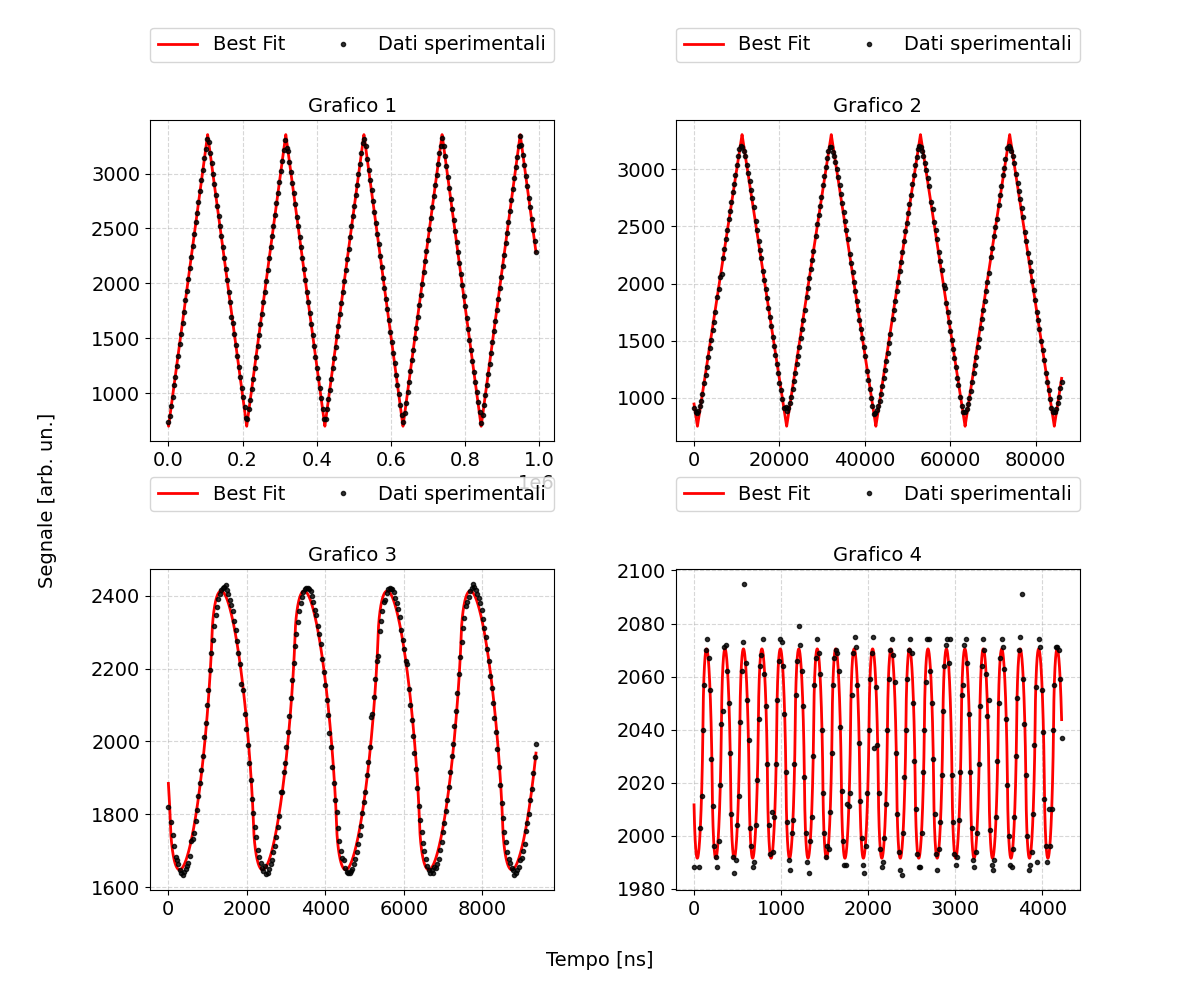
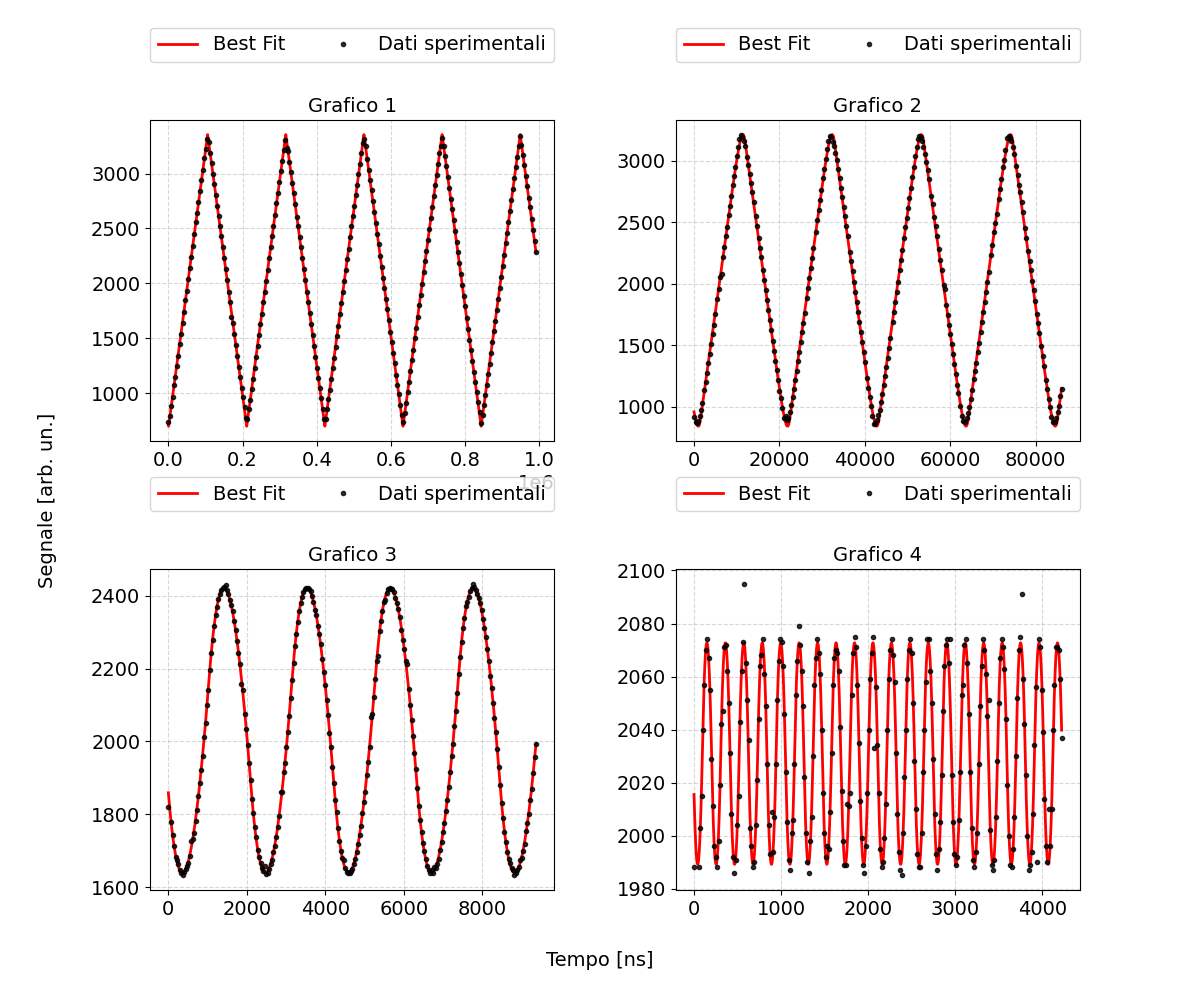
Add files via upload
Many many corrections and improvements!

diff --git a/Relazionenatalizia/fous_int_der_triang.py b/Relazionenatalizia/fous_int_der_triang.py
@@ -1,0 +1,80 @@
+import numpy as np
+from matplotlib import pyplot as plt
+
+filepath = r'/media/candido/Extreme SSD/Unipi/Secondo anno/Lab 2/Materiale/Esercizi/Relazionenatalizia/'
+
+### Aesthetic Settings
+fontsize = 14
+num_plots = 6
+params = {
+    'figure.figsize': (6 * 1.618, 6),  # Figure size
+    'axes.labelsize': fontsize,        # Axis label size
+    'axes.titlesize': fontsize,        # Title size
+    'xtick.labelsize': fontsize,       # X-axis tick label size
+    'ytick.labelsize': fontsize,       # Y-axis tick label size
+    'legend.fontsize': fontsize,       # Legend font size
+}
+plt.rcParams.update(params)
+
+# Fourier sine series for a square wave
+def ff(x,a, omega, phi,c,ft, iter=1000):
+    iter += 1
+    f = 0
+    x=phi+x
+    for k in range(1, iter, 2):
+        f += G_lpf(k*omega,ft)*((2 / (k * np.pi))**2) * np.cos(k * x * omega + dphi_lpf(k*omega,ft) )
+    f=f-np.mean(f)
+    return a*f+c
+
+def fd(x,a, omega, phi,c,ft, iter=1000):
+    iter += 1
+    f = 0
+    x=phi+x
+    for k in range(1, iter, 2):
+        f += G_hpf(k*omega,ft)*((2 / (k * np.pi))**2) * np.cos(k * x * omega + dphi_hpf(k*omega,ft) )
+    f=f-np.mean(f)
+    return a*f+c
+
+def ft(x,a=1, omega=2 * np.pi, phi=0, iter=1000):
+    iter += 1
+    f = 0
+    for k in range(1, iter, 2):
+        f += ((2 / (k * np.pi))**2) * np.cos(k * x * omega + phi)
+    return a*f
+
+
+##################
+def G_lpf(omega,ft=1000):
+    f=omega/(2*np.pi)
+    return 1/np.sqrt(1+(f/ft)**2)
+def dphi_lpf(omega,ft=1000):
+    f=omega/(2*np.pi)
+    return np.arctan(-f/ft)
+
+def G_hpf(omega,ft=1000):
+    f=omega/(2*np.pi)
+    return 1/np.sqrt(1+(ft/f)**2)
+def dphi_hpf(omega,ft=1000):
+    f=omega/(2*np.pi)
+    return np.arctan(ft/f)
+
+
+
+# Analytical square wave
+def triangwave(x, a, omega=2 * np.pi, phi=0):
+    return a * (1-(2/np.pi)*np.arccos(np.cos(x * omega + phi)))
+
+
+# Parameters
+iter = np.logspace(1, num_plots, num_plots, base=10)  # Logarithmically spaced
+res_im = 10000
+xx = np.linspace(-1, 1, res_im)
+
+plt.figure()
+plt.plot(xx,1000*ff(xx,1,2*np.pi,0,0,1e-3),label="Segnale integrato x1000")
+plt.plot(xx,1000*fd(xx,1,2*np.pi,0,0,1e3),label="Segnale derivato x1000")
+plt.plot(xx,ft(xx,1,2*np.pi,0,1000),label="Segnale")
+plt.grid()
+plt.legend(loc='lower right', ncol=1)
+plt.savefig(filepath+"integ_der_trinag.png")
+plt.show()

diff --git a/Relazionenatalizia/fous_int_der_train.py b/Relazionenatalizia/fous_int_der_train.py
@@ -1,0 +1,76 @@
+import numpy as np
+from matplotlib import pyplot as plt
+
+filepath = r'/media/candido/Extreme SSD/Unipi/Secondo anno/Lab 2/Materiale/Esercizi/Relazionenatalizia/'
+
+### Aesthetic Settings
+fontsize = 14
+num_plots = 6
+params = {
+    'figure.figsize': (6 * 1.618, 6),  # Figure size
+    'axes.labelsize': fontsize,        # Axis label size
+    'axes.titlesize': fontsize,        # Title size
+    'xtick.labelsize': fontsize,       # X-axis tick label size
+    'ytick.labelsize': fontsize,       # Y-axis tick label size
+    'legend.fontsize': fontsize,       # Legend font size
+}
+plt.rcParams.update(params)
+
+# Fourier sine series for a train pulse wave
+def ff(x, a=1, omega=2 * np.pi, delta=0.3, iter=1000):
+    iter += 1
+    f = 0
+    for k in range(1, iter):
+        f += (2 / (k * np.pi)) * np.sin(np.pi * k * delta) * np.cos(k * x * omega)
+    return a * f 
+
+def fi(x, a=1, omega=2 * np.pi, delta=0.3,ft=1e-3, iter=1000):
+    iter += 1
+    f = 0
+    for k in range(1, iter):
+        f += G_lpf(k*omega,ft)*(2 / (k * np.pi)) * np.sin(np.pi * k * delta) * np.cos(k * x * omega+dphi_lpf(k*omega,ft))
+    return a * f 
+
+def fd(x, a=1, omega=2 * np.pi, delta=0.3,ft=1e1, iter=1000):
+    iter += 1
+    f = 0
+    for k in range(1, iter):
+        f += G_hpf(k*omega,ft)*(2 / (k * np.pi)) * np.sin(np.pi * k * delta) * np.cos(k * x * omega+dphi_hpf(k*omega,ft))
+    return a * f 
+
+
+
+##################
+def G_lpf(omega,ft=1000):
+    f=omega/(2*np.pi)
+    return 1/np.sqrt(1+(f/ft)**2)
+def dphi_lpf(omega,ft=1000):
+    f=omega/(2*np.pi)
+    return np.arctan(-f/ft)
+
+def G_hpf(omega,ft=1000):
+    f=omega/(2*np.pi)
+    return 1/np.sqrt(1+(ft/f)**2)
+def dphi_hpf(omega,ft=1000):
+    f=omega/(2*np.pi)
+    return np.arctan(ft/f)
+
+
+
+
+
+# Parameters
+iter = np.logspace(1, num_plots, num_plots, base=10)  # Logarithmically spaced
+res_im = 10000
+xx = np.linspace(-1, 1, res_im)
+
+plt.figure()
+plt.plot(xx,ff(xx),label="Segnale")
+plt.plot(xx,1e3*fi(xx),label="Segnale integrato x1000")
+plt.plot(xx,fd(xx),label="Segnale derivato")
+
+plt.grid()
+plt.ylim(-1,1)
+plt.legend(loc='lower right', ncol=1)
+plt.savefig(filepath+"integ_der_train.png")
+plt.show()

diff --git a/Relazionenatalizia/fous_int_der_square.py b/Relazionenatalizia/fous_int_der_square.py
@@ -1,0 +1,73 @@
+import numpy as np
+from matplotlib import pyplot as plt
+
+filepath = r'/media/candido/Extreme SSD/Unipi/Secondo anno/Lab 2/Materiale/Esercizi/Relazionenatalizia/'
+
+### Aesthetic Settings
+fontsize = 14
+num_plots = 6
+params = {
+    'figure.figsize': (6 * 1.618, 6),  # Figure size
+    'axes.labelsize': fontsize,        # Axis label size
+    'axes.titlesize': fontsize,        # Title size
+    'xtick.labelsize': fontsize,       # X-axis tick label size
+    'ytick.labelsize': fontsize,       # Y-axis tick label size
+    'legend.fontsize': fontsize,       # Legend font size
+}
+plt.rcParams.update(params)
+
+# Fourier sine series for a square wave
+def ff(x, a=1,omega=2 * np.pi,  iter=1000):
+    iter += 1
+    f = 0
+    for k in range(1, iter, 2):
+        f += (2 / (k * np.pi)) * np.sin(k * x * omega)
+    return a*f
+
+def fi(x, a=1,omega=2 * np.pi, ft=1e-3, iter=1000):
+    iter += 1
+    f = 0
+    for k in range(1, iter, 2):
+        f += G_lpf(k*omega,ft)*(2 / (k * np.pi)) * np.sin(k * x * omega + dphi_lpf(k*omega,ft))
+    return a*f
+
+def fd(x, a=1,omega=2 * np.pi, ft=1e-3, iter=1000):
+    iter += 1
+    f = 0
+    for k in range(1, iter, 2):
+        f += G_hpf(k*omega,ft)*(2 / (k * np.pi)) * np.sin(k * x * omega + dphi_hpf(k*omega,ft))
+    return a*f
+
+##################
+def G_lpf(omega,ft=1000):
+    f=omega/(2*np.pi)
+    return 1/np.sqrt(1+(f/ft)**2)
+def dphi_lpf(omega,ft=1000):
+    f=omega/(2*np.pi)
+    return np.arctan(-f/ft)
+
+def G_hpf(omega,ft=1000):
+    f=omega/(2*np.pi)
+    return 1/np.sqrt(1+(ft/f)**2)
+def dphi_hpf(omega,ft=1000):
+    f=omega/(2*np.pi)
+    return np.arctan(ft/f)
+
+
+
+
+
+# Parameters
+iter = np.logspace(1, num_plots, num_plots, base=10)  # Logarithmically spaced
+res_im = 10000
+xx = np.linspace(-1, 1, res_im)
+
+plt.figure()
+plt.plot(xx,1e3*fi(xx,1,2*np.pi,1e-3),label="Segnale integrato x1000")
+plt.plot(xx,fd(xx,1,2*np.pi,10),label="Segnale derivato")
+plt.plot(xx,ff(xx,1,2*np.pi),label="Segnale")
+plt.grid()
+plt.ylim(-1,1)
+plt.legend(loc='lower right', ncol=1)
+plt.savefig(filepath+"integ_der_square.png")
+plt.show()

diff --git a/Relazionenatalizia/bestfit_trian1.py b/Relazionenatalizia/bestfit_trian1.py
@@ -34,7 +34,7 @@ def ff(x,a, omega, phi,c,ft, iter=1000):
     f = 0
     x=phi+x
     for k in range(1, iter, 2):
-        f += G_lpf(omega,ft)*((2 / (k * np.pi))**2) * np.cos(k * x * omega + dphi_lpf(omega,ft) )
+        f += G_lpf(k*omega,ft)*((2 / (k * np.pi))**2) * np.cos(k * x * omega + dphi_lpf(k*omega,ft) )
     f=f-np.mean(f)
     return a*f+c
 
@@ -69,9 +69,8 @@ plt.figure()
 plt.errorbar(t2,v2,fmt='.',label="Dati sperimentali")
 plt.plot(xx,ff(xx,*popt2))
 
-
 xx=np.linspace(max(t3),min(t3),10000)
-p0=(2.6e3,2*np.pi/2.1e3, 2e5,2000,1e-3)
+p0=(1e3,2*np.pi/2.1e3, -1e5,2000,1e-3)
 popt3,pcov3=curve_fit(ff,t3,v3,p0=p0,absolute_sigma=False)
 
 
@@ -79,16 +78,15 @@ plt.figure()
 plt.errorbar(t3,v3,fmt='.',label="Dati sperimentali")
 plt.plot(xx,ff(xx,*popt3))
 
+#Bad dataset-but do not discard!
+# xx=np.linspace(max(t4),min(t4),10000)
+# p0=(2.6e3,2*np.pi/2.1e2, 2e5,2000,1e-3)
+# popt4,pcov4=curve_fit(ff,t4,v4,p0=p0,absolute_sigma=False)
 
-"""Bad dataset-but do not discard!
-xx=np.linspace(max(t4),min(t4),10000)
-p0=(2.6e3,2*np.pi/2.1e2, 2e5,2000,1e-3)
-popt4,pcov4=curve_fit(ff,t4,v4,p0=p0,absolute_sigma=False)
+# plt.figure()
+# plt.errorbar(t4,v4,fmt='.',label="Dati sperimentali")
+# plt.plot(xx,ff(xx,*popt4))
 
-plt.figure()
-plt.errorbar(t4,v4,fmt='.',label="Dati sperimentali")
-plt.plot(xx,ff(xx,*popt4))
-"""
 
 xx=np.linspace(max(t5),min(t5),10000)
 p0=(2.6e3,2*np.pi/2.1e2, 2e5,2000,1e-3)

diff --git a/Relazionenatalizia/bestfit_trian2.py b/Relazionenatalizia/bestfit_trian2.py
@@ -33,12 +33,14 @@ def ff(x, a, omega, phi, c, ft, iter=1000):
     f = 0
     x = phi + x
     for k in range(1, iter, 2):
-        f += G_lpf(omega, ft) * ((2 / (k * np.pi))**2) * np.cos(k * x * omega + dphi_lpf(omega, ft))
+        f += G_lpf(k*omega, ft) * ((2 / (k * np.pi))**2) * np.cos(k * x * omega + dphi_lpf(k*omega, ft))
     f = f - np.mean(f)
     return a * f + c
 
 def sin(x, a, omega, phi, c):
     return a * np.sin(omega * x + phi) + c
+
+
 
 ### Caricamento dei dati
 data_files = [
@@ -48,7 +50,7 @@ data_files = [
 initial_guesses = [
     (2.6e3, 2 * np.pi / 2.1e5, 0.1e6, 2000, 1e-3),
     (2.6e3, 2 * np.pi / 2.1e4, 2e5, 2000, 1e-3),
-    (2.6e3, 2 * np.pi / 2.1e3, 2e5, 2000, 1e-3),
+    (1e3,2*np.pi/2.1e3, -1e5,2000,1e-3),
     (2.6e3, 2 * np.pi / 2.1e2, 2e5, 2000, 1e-3)
 ]
 
